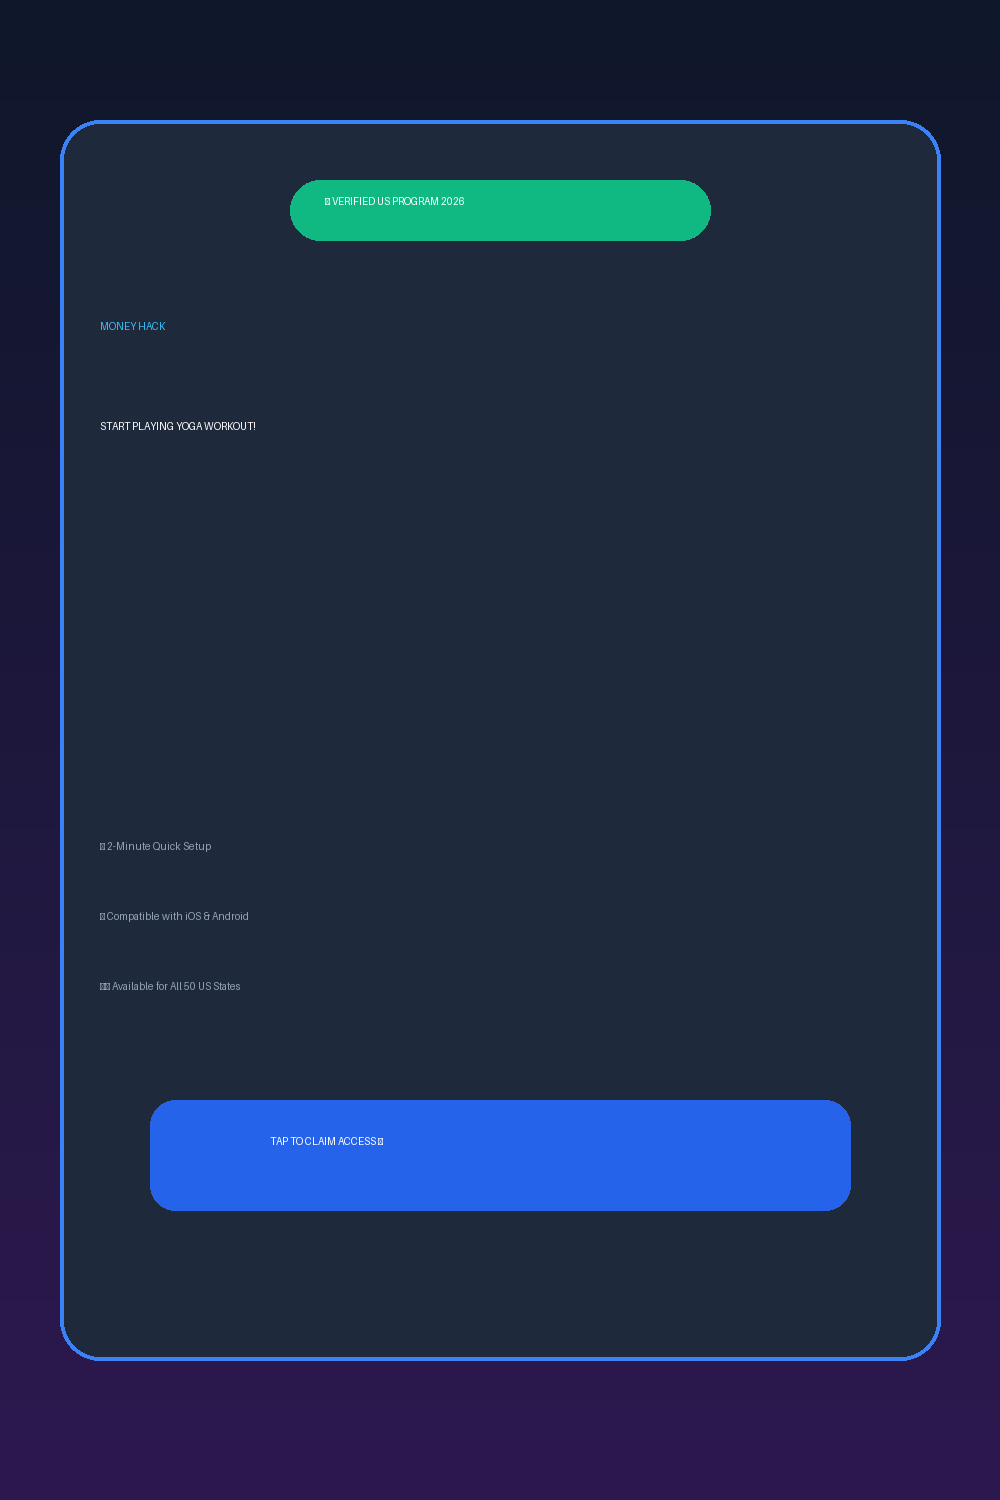
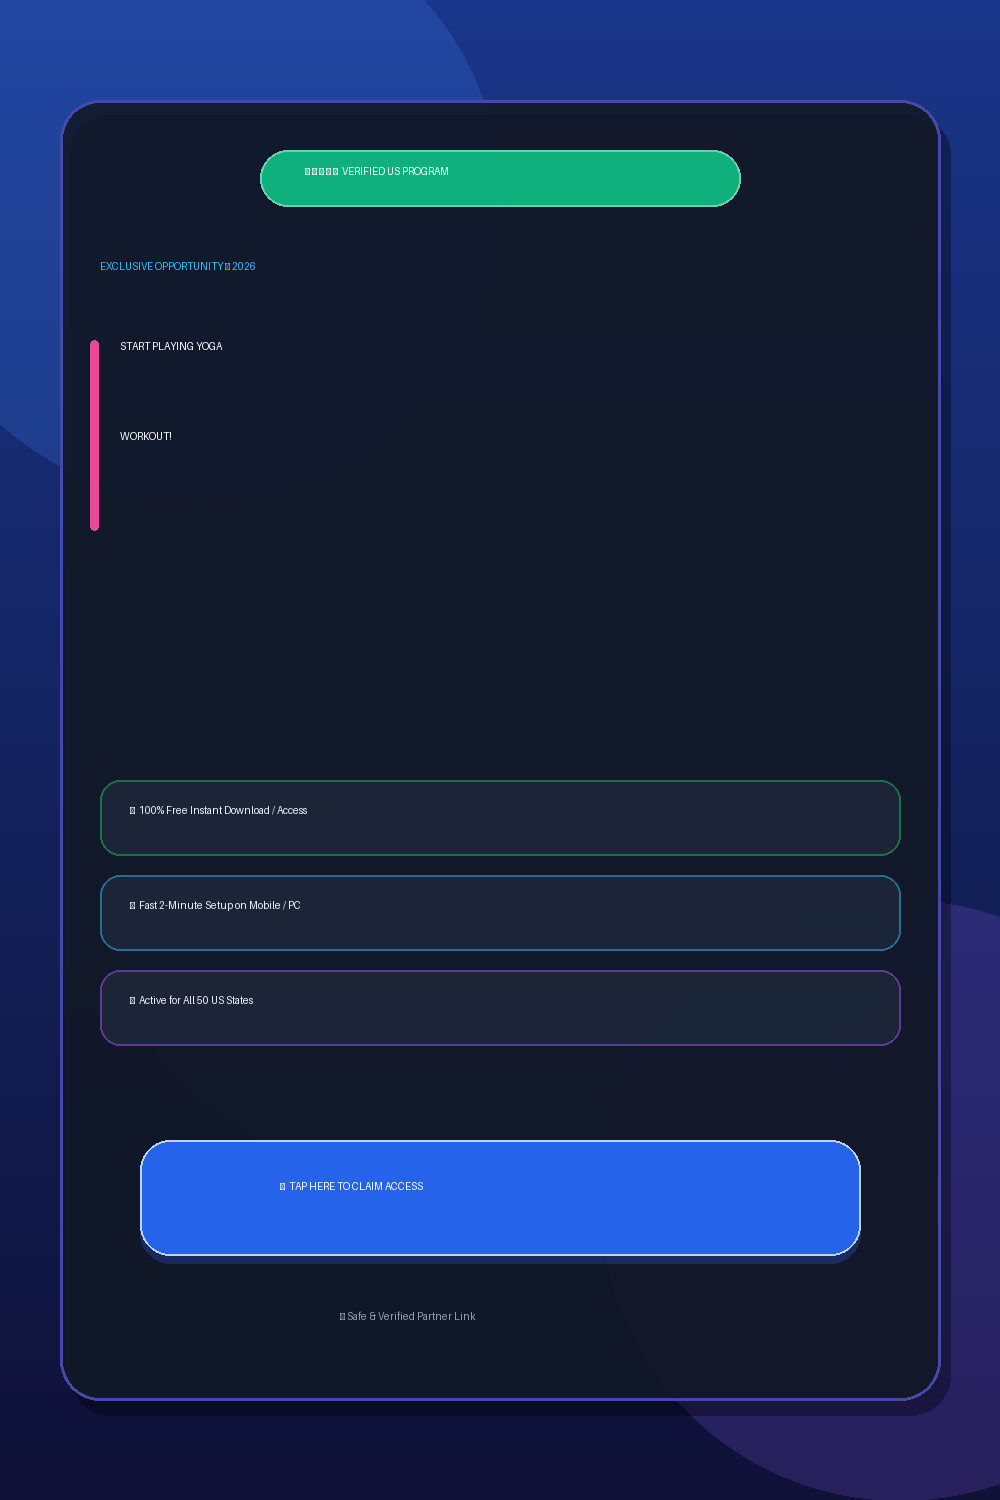
Focus strategy on Reddit & Medium with US Peak Hours scheduler

diff --git a/modules/content_engine.py b/modules/content_engine.py
@@ -13,7 +13,7 @@ class ContentEngine:
                 print(f"[!] Warning: Could not initialize Gemini model ({e}). Using offline copy templates.")
 
     def generate_angles(self, offer, safe_bridge_url):
-        """Generates clean, structured content specifically for Reddit and Pinterest."""
+        """Generates clean, structured content specifically for Reddit and Medium."""
         title = offer["title"]
         desc = offer["description"]
         payout = offer["payout"]
@@ -21,16 +21,20 @@ class ContentEngine:
 
         if self.client:
             prompt = f"""
-            You are an elite digital marketing specialist for US audiences.
-            Create clean, ready-to-copy promotion text for:
-            - Offer: {title} (${payout} payout, {offer_type})
+            You are an elite digital marketing and SEO writer specializing in US audience conversion.
+            Analyze this offer:
+            - Title: {title}
+            - Reward/Payout: ${payout}
+            - Type: {offer_type}
             - Safe Pre-Lander Link: {safe_bridge_url}
 
             Output strictly in this JSON format without markdown code fences:
             {{
-              "reddit_comment": "A natural 2-3 paragraph casual human response from a 27yo US resident. Helpful advice first, then naturally mentioning [{title}]({safe_bridge_url}) in the second paragraph, ending with casual tip and *(shared via partner link)*. No bold headers or bullet points.",
-              "pin_title": "Catchy benefit-driven Pinterest Pin Title under 70 characters",
-              "pin_description": "2-3 engaging sentences describing how to claim this reward with hashtags #USDeals #FrugalLiving #SideHustle #FreeGiftCards"
+              "reddit_comment": "A natural 2-3 paragraph casual human response from a 27yo US resident. Helpful advice first, then naturally mentioning [{title}]({safe_bridge_url}) in the second paragraph, ending with casual tip and *(shared via partner link)*. No bold headers or corporate lists.",
+              "medium_title": "High-CTR, curiosity-driven Medium Story Title under 80 characters (e.g. The 2-Minute Habit Saving US Shoppers Money This Month)",
+              "medium_subtitle": "Engaging one-sentence subtitle explaining the benefit",
+              "medium_article": "A high-quality 350-450 word Medium article with 2-3 subheadings. Structure: 1. Introduction acknowledging rising US living costs or routine phone habits. 2. Real strategy breakdown. 3. Highlighting [{title}]({safe_bridge_url}) as a verified zero-cost opportunity. 4. Practical takeaway steps and affiliate disclosure *(Note: Contains partner resource links)*.",
+              "medium_tags": "Side Hustle, Money, Productivity, Apps, Lifestyle"
             }}
             """
             try:
@@ -52,8 +56,10 @@ class ContentEngine:
         # Clean fallback
         return {
             "reddit_comment": f"Honestly, if you're looking for low-effort stuff that actually pays out in the US right now, I usually combine receipt scanning apps with quick consumer panels.\n\nI recently tested the [{title}]({safe_bridge_url}) through a verified rewards hub—it only takes a couple of minutes to complete and is definitely worth checking out while it's active.\n\nJust make sure you use a valid US zip so the reward registers properly! *(shared via partner link)*",
-            "pin_title": f"How to Claim {title} (US Only)",
-            "pin_description": f"Discover how verified consumer reward programs give away digital perks for quick feedback. Check out the step-by-step portal below! #FrugalLiving #USDeals #MoneyHacks #SideIncome #GiftCards"
+            "medium_title": f"The Smart Way to Test New Apps & Earn Rewards in 2026",
+            "medium_subtitle": "How verified micro-reward programs are helping everyday US users earn in their downtime.",
+            "medium_article": f"Managing a personal budget in 2026 requires looking for smart, low-friction habits that put extra cash or gift cards in your pocket without demanding hours of your day.\n\n### The Rise of Mobile Micro-Testing\nApp developers spend millions of dollars annually acquiring new test users. Instead of sitting through lengthy questionnaires, modern rewards networks offer micro-tasks where you simply download, test, and engage with trending applications for a couple of minutes.\n\n### Featured US Opportunity: {title}\nOne of the most active campaigns running this month is [{title}]({safe_bridge_url}). Available for US residents, this program allows users to access verified trials and claim instant incentives upon quick onboarding.\n\n### How to Get Started:\n1. Open the [Verified Rewards Portal]({safe_bridge_url}).\n2. Complete the quick 1-minute sponsor check.\n3. Enjoy your digital reward!\n\n*(Disclosure: This article contains verified affiliate partner links).*",
+            "medium_tags": "Side Hustle, Money, Productivity, Technology, Lifestyle"
         }
 
     def _generate_fallback(self, offer, safe_bridge_url):

diff --git a/main.py b/main.py
@@ -46,15 +46,13 @@ def run_agent():
     print(f"🛡 [3/4] Generated Safe Pre-Lander Link: {safe_bridge_link}")
 
     # 4. Generate Structured Content with Gemini
-    print("✍ [4/5] Generating Hyper-Converting Reddit & Pinterest Angles...")
+    print("✍ [4/4] Generating High-Converting Reddit & Medium Angles...")
     angles = content_engine.generate_angles(best_offer, safe_bridge_link)
     reddit_comment = angles.get("reddit_comment", "")
-    pin_title = angles.get("pin_title", best_offer["title"])
-    pin_description = angles.get("pin_description", "Verified US offer opportunity.")
-
-    # 5. Generate Pinterest Pin Image
-    print("🎨 [5/5] Generating 1000x1500 Pinterest Graphic...")
-    pin_image_path = pin_generator.create_pin_image(best_offer["title"], best_offer["payout"], best_offer["type"])
+    medium_title = angles.get("medium_title", best_offer["title"])
+    medium_subtitle = angles.get("medium_subtitle", "Verified US promotional opportunity.")
+    medium_article = angles.get("medium_article", "")
+    medium_tags = angles.get("medium_tags", "Side Hustle, Money, Productivity, Apps")
 
     # ==========================================
     # MESSAGE 1: REDDIT ACTION CARD
@@ -69,42 +67,46 @@ def run_agent():
 👉 [Open r/frugal Discussions](https://www.reddit.com/r/frugal/search/?q=save+money+rewards&sort=new)
 👉 [Open r/SideHustle Discussions](https://www.reddit.com/r/SideHustle/search/?q=easy+money+apps&sort=new)
 
-📋 *Step 2: Tap the box below to copy & paste this comment:*
+📋 *Step 2: Tap COPY CODE below to copy & paste this comment:*
 ```text
 {reddit_comment}
 ```
 """
 
     # ==========================================
-    # MESSAGE 2: PINTEREST ACTION CARD (DESCRIPTION & LINK)
+    # MESSAGE 2: MEDIUM ACTION CARD
     # ==========================================
-    pinterest_details = f"""📌 *PINTEREST ACTION CARD (1-Minute Pin)*
+    medium_message = f"""📝 *MEDIUM ACTION CARD (1-Minute Story)*
 
-🚀 *Step 1: Open Pinterest Creator:*
-👉 [Click to Open Pinterest Pin Builder](https://www.pinterest.com/pin-builder/)
+🚀 *Step 1: Open Medium Story Creator:*
+👉 [Click to Write New Story on Medium](https://medium.com/new-story)
 
-📝 *Step 2: Tap COPY CODE below for Pin Description:*
+🏷 *Step 2: Subtitle (Optional):*
 ```text
-{pin_description}
+{medium_subtitle}
 ```
 
-🌐 *Step 3: Tap COPY CODE below for Destination Link:*
+📄 *Step 3: Tap COPY CODE below for Full Article Body:*
 ```text
-{safe_bridge_link}
+{medium_article}
+```
+
+🏷 *Step 4: Tap COPY CODE below for 5 Topic Tags:*
+```text
+{medium_tags}
 ```
 """
 
     # ==========================================
-    # MESSAGE 3: STANDALONE PIN TITLE (1-TAP FULL COPY)
+    # MESSAGE 3: STANDALONE MEDIUM TITLE (1-TAP FULL COPY)
     # ==========================================
-    pin_title_message = f"{pin_title}"
+    medium_title_message = f"{medium_title}"
 
     # Dispatch to Telegram in clean sequence
     notifier.send_notification(reddit_message)
-    notifier.send_photo(pin_image_path, caption="🎨 Save this Pinterest Pin image to your device!")
-    notifier.send_notification(pinterest_details)
-    notifier.send_notification(pin_title_message)
-    print("✨ [AI Agent] Pipeline execution complete. Cards delivered to Telegram!")
+    notifier.send_notification(medium_message)
+    notifier.send_notification(medium_title_message)
+    print("✨ [AI Agent] Pipeline execution complete. Reddit & Medium cards delivered to Telegram!")
 
 if __name__ == "__main__":
     run_agent()
